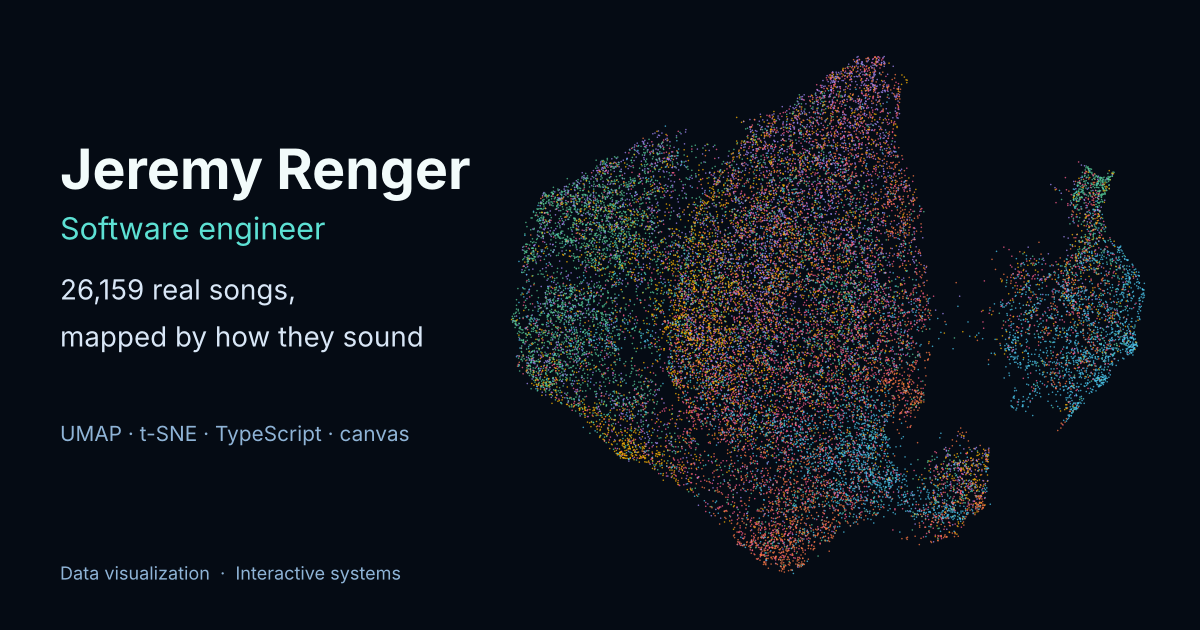
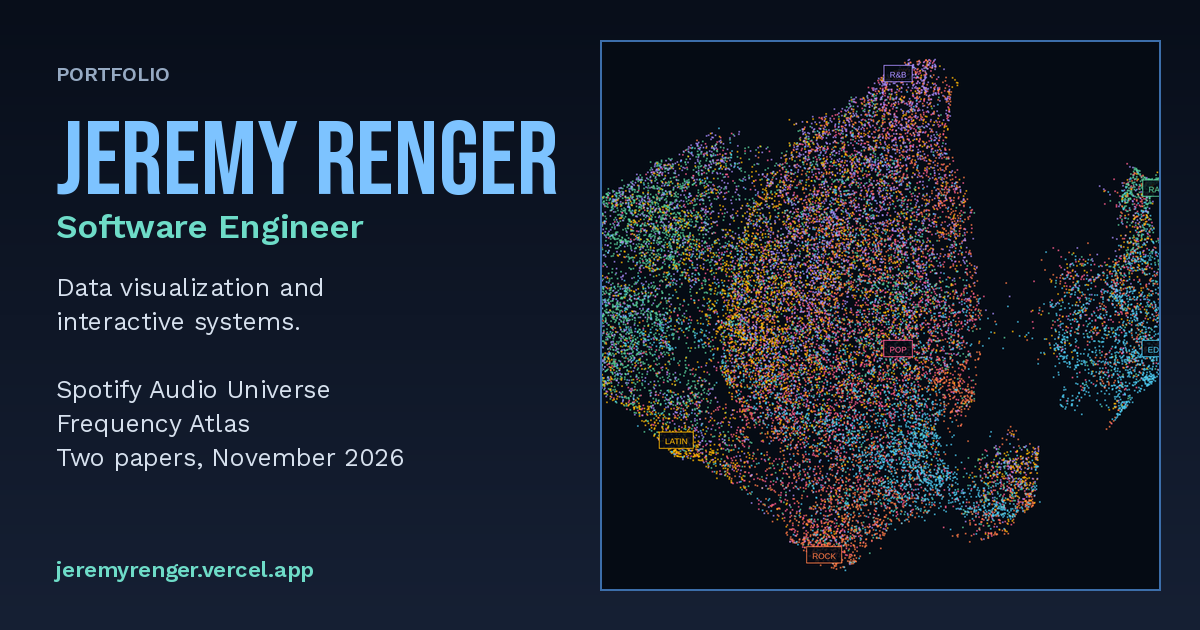
Homepage link preview: title-case image, alt text, canonical URL
Claude-Session: https://claude.ai/code/session_01VEVZvpex9KX87rFkiFvrYh

diff --git a/app/layout.tsx b/app/layout.tsx
@@ -23,6 +23,7 @@ export const metadata: Metadata = {
   metadataBase: new URL(SITE.url),
   title: `${SITE.name} | Software Engineer`,
   description,
+  alternates: { canonical: '/' },
   openGraph: {
     type: 'website',
     url: '/',
